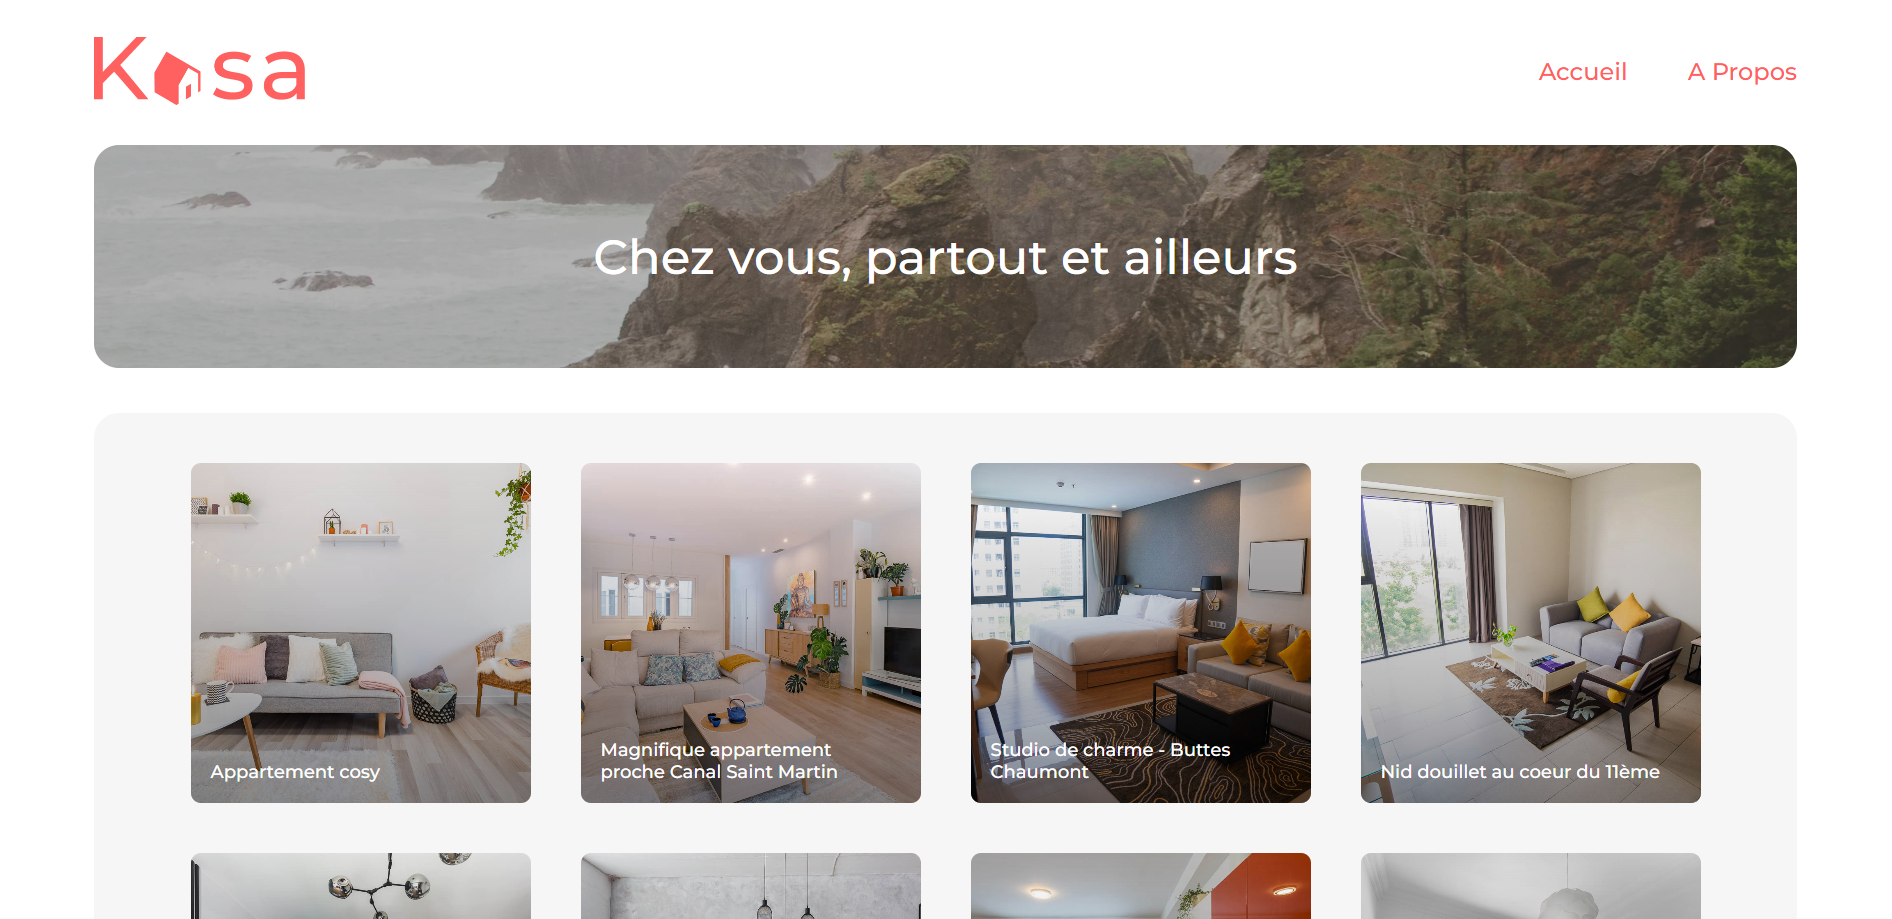
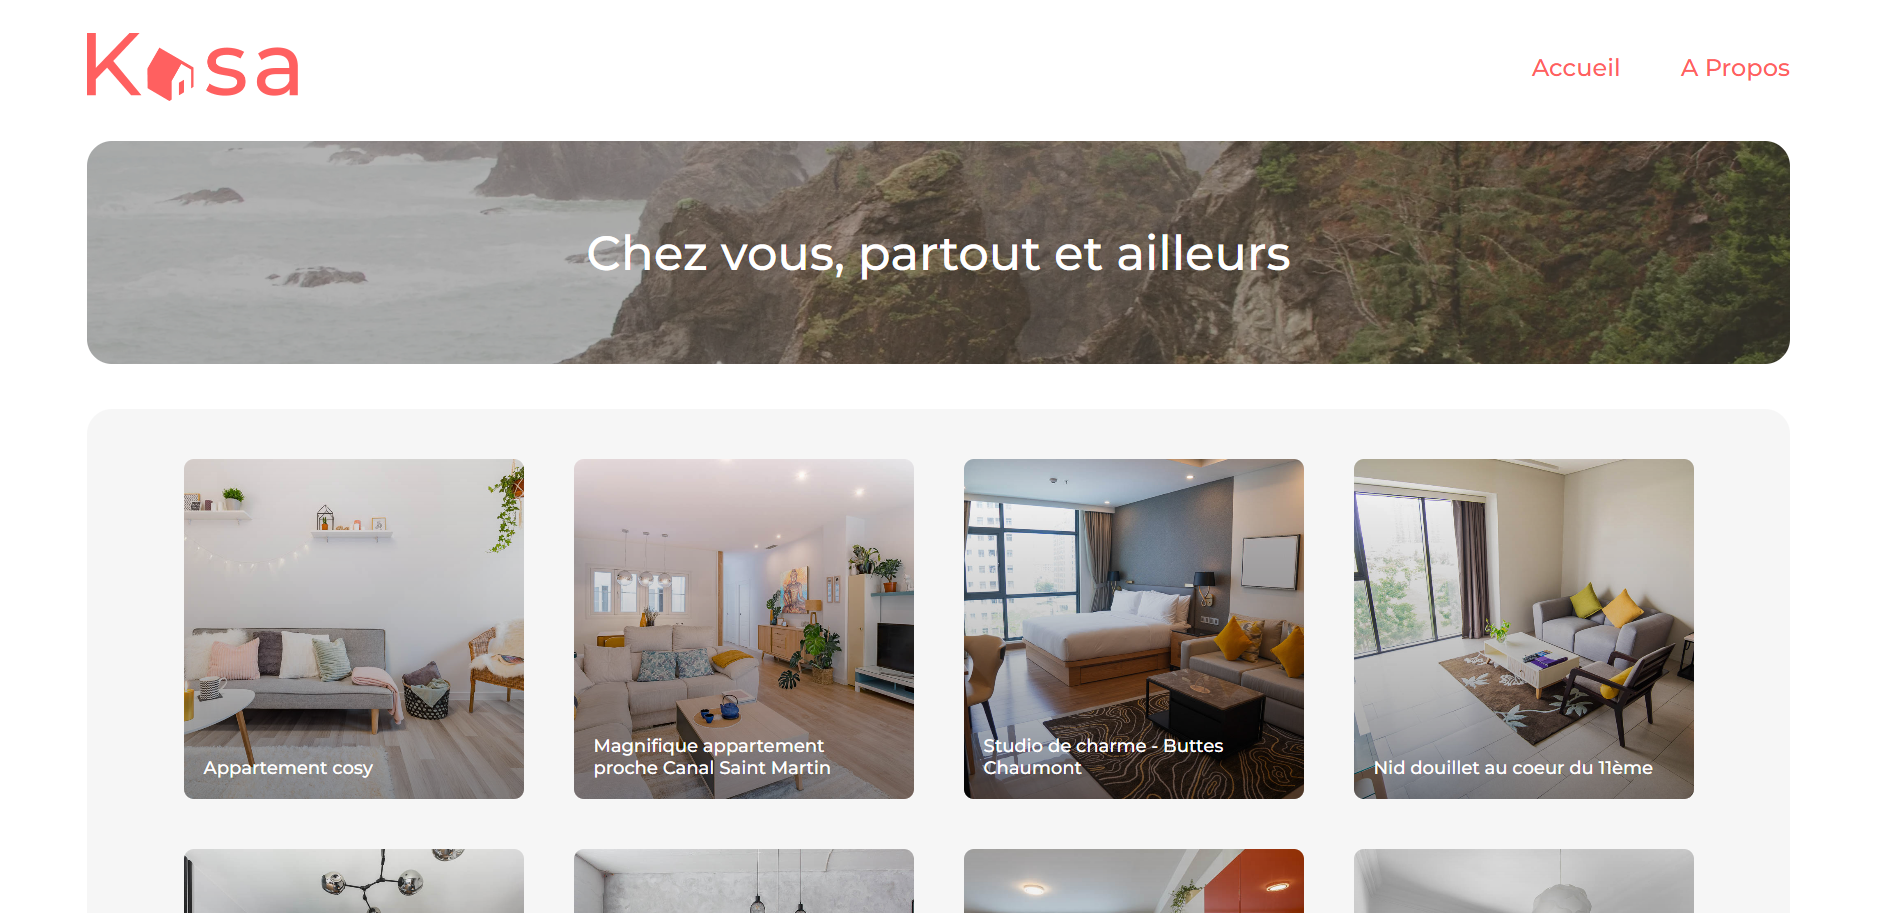
New modification height

diff --git a/sass/pages/_portfolio.scss b/sass/pages/_portfolio.scss
@@ -71,7 +71,7 @@ img{
     width: 100%;
 }
 .rectangle{
-    margin: 30px;height: 210px;
+    margin: 30px;
     overflow: hidden;
     border-radius: 20px;
     display: flex;

diff --git a/css/style.css b/css/style.css
@@ -12042,7 +12042,6 @@ img {
 
 .rectangle {
   margin: 30px;
-  height: 210px;
   overflow: hidden;
   border-radius: 20px;
   display: flex;
